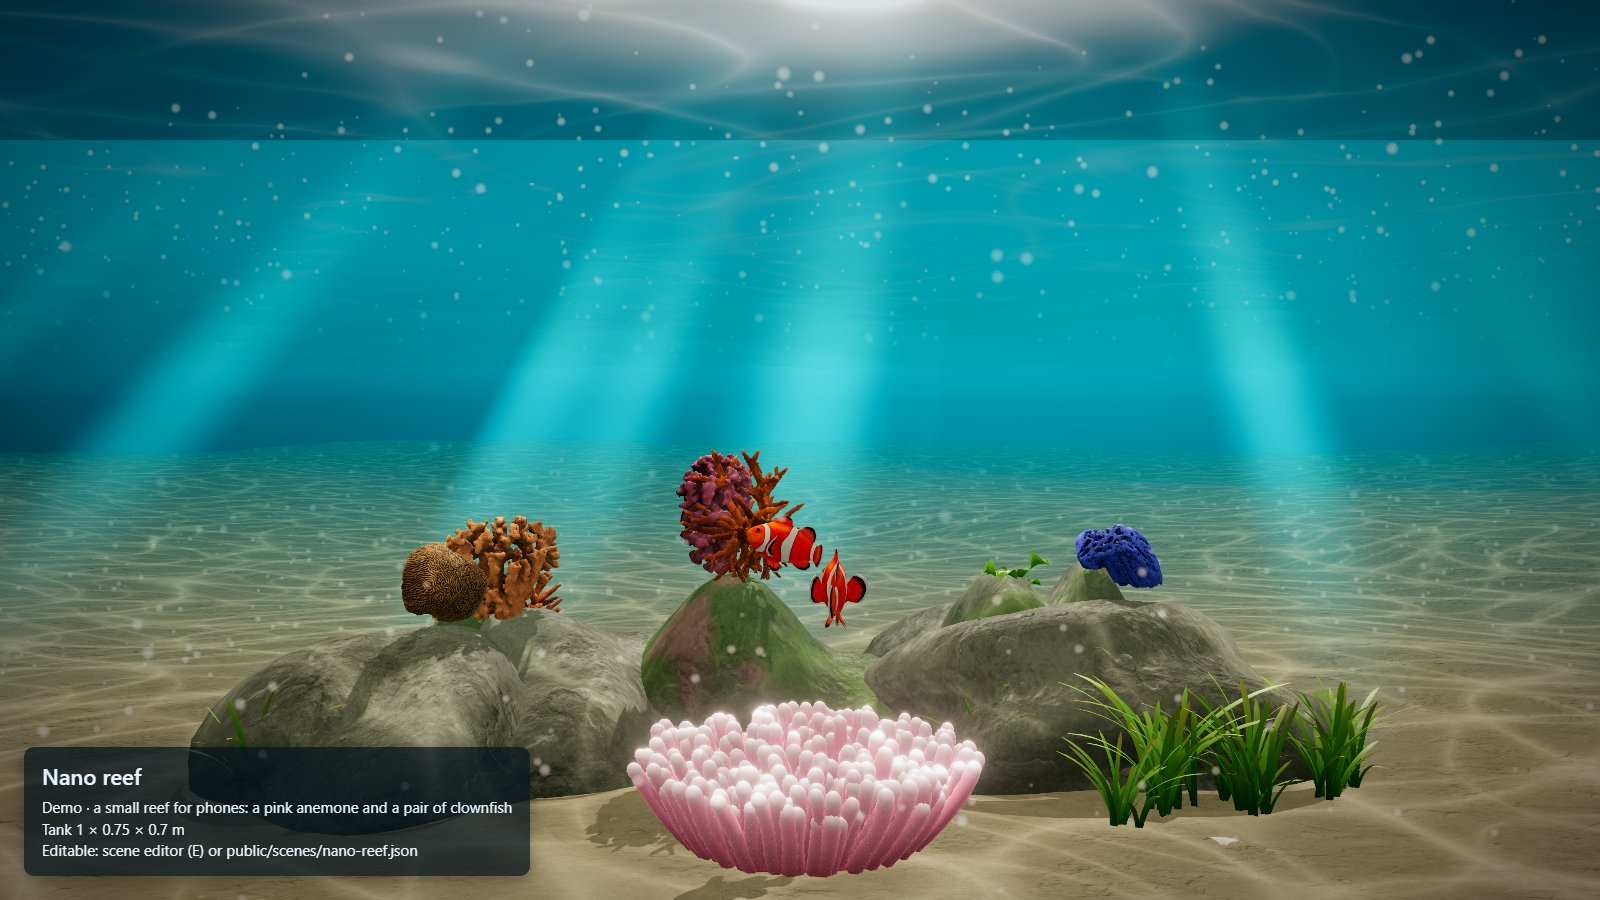
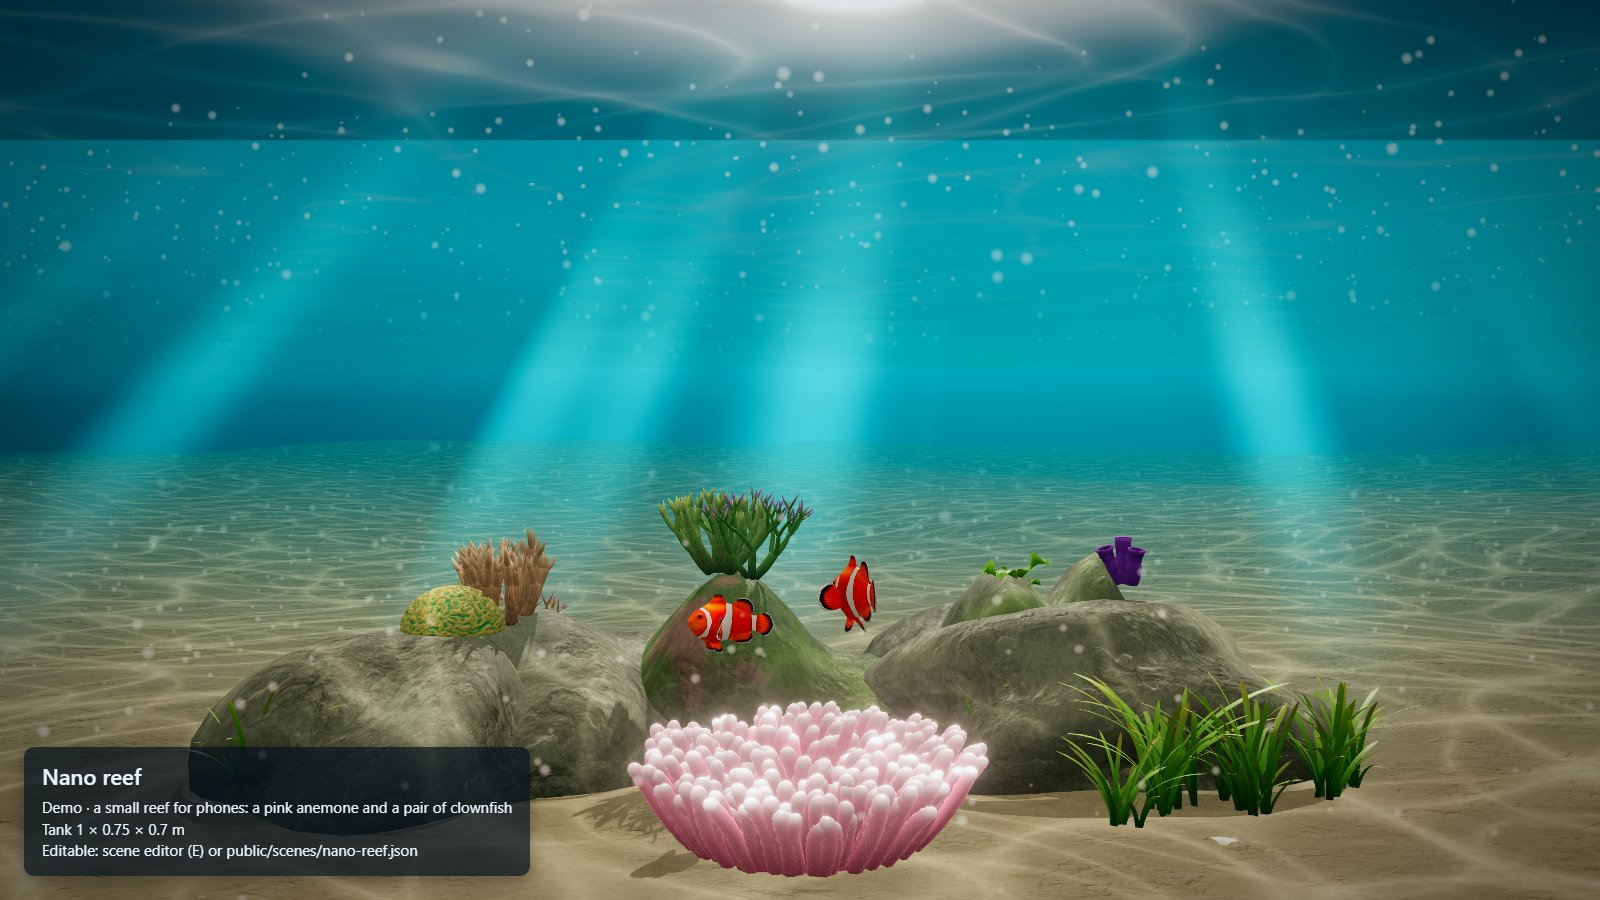
feat(scenes): living corals in the Hero, the Tropical reef and the Nano reef (L2)
Asked by the user: no dead corals anywhere. The coral scans left in the
Hero (about 120), the Tropical reef and the Nano reef give way to the
corals made in Blender: acropora for staghorn, the living brain coral
for the brain and maze scans, pocillopora for cauliflower, finger and
plating montipora, table acropora, tube sponges (60% of the glove
sponge's size, being taller than wide). The scans stay in the catalog.
Pictures and baselines redone.

diff --git a/docs/ROADMAP.md b/docs/ROADMAP.md
@@ -640,8 +640,9 @@ fluorescence; the scans are left out of the tanks.
       large (`scripts/blender/colonies.py`): acropora, cauliflower coral
       (pocillopora), table acropora, finger coral (montipora digitata),
       a living brain coral, the torch coral and a tube sponge. No scans
-      left in the Home reef and the Clownfish lagoon; the Hero and the
-      Tropical reef keep theirs for now. The table acropora is heavy
+      left in any bundled scene: the Hero, the Tropical reef and the Nano
+      reef wear the living corals too (the user, 2026-10-26). The scans
+      stay in the catalog for scenes that ask for them. The table acropora is heavy
       (850 KB).
 
 ### L3. Sand
